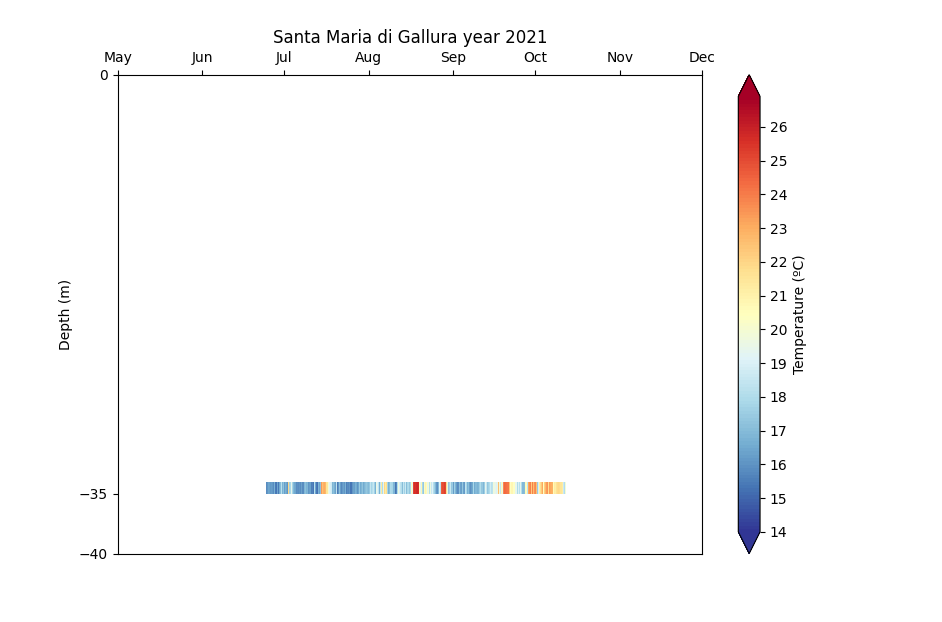
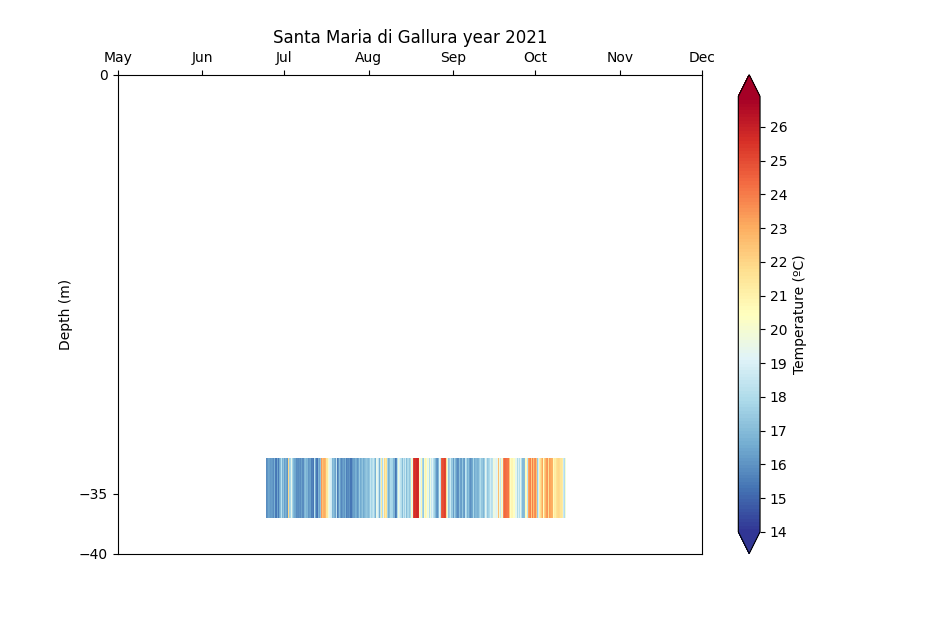
Changed the way the plot works for stratification when there is only 1 depth, instead of going 1 meter above it goes 2.5m above and below.

Changed region(s): [[0.2771, 0.7331, 0.6157, 0.8553]]

diff --git a/tmednetGUI/user_interaction.py b/tmednetGUI/user_interaction.py
@@ -752,8 +752,10 @@ class tmednet(tk.Frame):
                     # df_second = df[index_cut:]
             # Checks how many depths the file has, if there is only one depth it creates a new one 1 meter above
             if len(depths) == 1:
-                depths = np.insert(depths, 0, depths[0] - 1)
+                depths = np.insert(depths, 1, depths[0] + 2.5)
+                depths = np.insert(depths, 0, depths[0] - 2.5)
                 df.insert(0, str(depths[0]), df[str(depths[1])])
+                df.insert(2, str(depths[2]), df[str(depths[1])])
             if index_cut:
                 df_cuts.append(df[index_cut:])
                 cf = []
